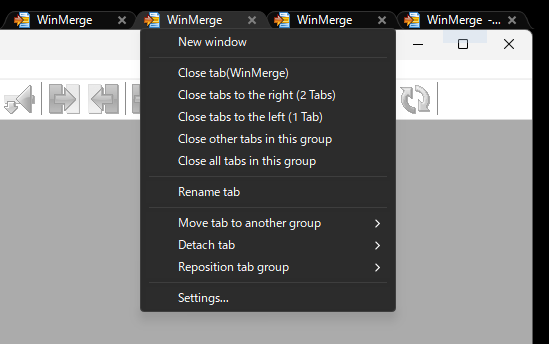
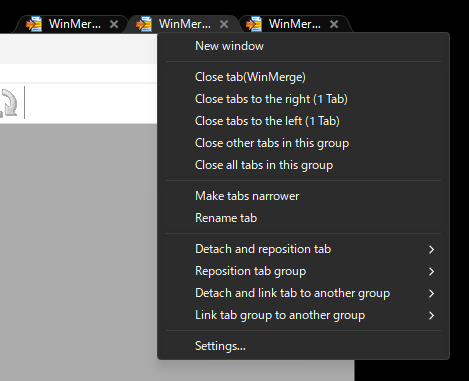
- Update README.md documentation

diff --git a/README.md b/README.md
@@ -65,32 +65,33 @@ To run WindowTabs at startup:
 
 ## Features
 
+### Tab Drag and Drop
+
+This feature remains unchanged from the original WindowTabs functionality.
+
+- Drag tabs to reorder within the same group
+- Drag tabs to separate into new windows with preview
+- Drop windows to create new tab groups
+- Respects tab alignment settings (left/center/right)
+
 ### Tab Management
 
 - **Tab Context Menu**: Right-click on tabs to access various options
   - Close tabs (this tab, tabs to the right, tabs to the left, other tabs, all tabs)
   - New window
-  - Tab width control (narrow/wide)
+  - Make tabs wider / Make tabs narrower
   - Rename tab
-  - Move tab to another group
-  - Detach tab
+  - Detach and reposition tab
   - Reposition tab group
+  - Detach and link tab to another group
+  - Link tab group to another group
   - Settings
 
 ![Popup Menu](README_Image/PopupMenu.png)
 
-### Move tab to another group
+### Detach and reposition tab
 
-Transfer tabs between different window groups:
-- Shows other groups with tab names
-- Adaptive tab name truncation
-- Display application icons for easy identification
-
-![Move tab to another group](README_Image/MoveTab.png)
-
-### Detach tab
-
-Detach tabs from groups with multi-display support:
+Detach a tab from group and reposition it with multi-display support:
 - Detach at same position
 - Move to display edges (right/left/top/bottom)
 - DPI-aware percentage-based positioning for correct placement across different DPI displays
@@ -99,13 +100,33 @@ Detach tabs from groups with multi-display support:
 
 ### Reposition tab group
 
-Move entire tab groups to different display positions:
+Move entire tab group to different display positions:
 - Move to current display edges (right/left/top/bottom)
 - Move to other displays with edge positioning options
 - DPI-aware positioning for correct placement across different DPI displays
 - Maintains tab group integrity while repositioning
 
 ![Reposition tab group](README_Image/MoveTabGroup.png)
+
+### Detach and link tab to another group
+
+Detach a single tab from current group and link it to another existing group:
+- Shows other groups with tab names and counts
+- Adaptive tab name truncation for easy identification
+- Display application icons for group recognition
+- Disabled when tab group has only one tab
+
+![Detach and link tab to another group](README_Image/MoveTab.png)
+
+### Link tab group to another group
+
+Transfer all tabs from current group to another existing group:
+- Shows other groups with tab names and counts
+- Transfers all tabs at once from current group to target group
+- Adaptive tab name truncation for easy identification
+- Display application icons for group recognition
+
+![Link tab group to another group](README_Image/MoveTabGroupToGroup.png)
 
 
 ### Menu Dark Mode / Light Mode
@@ -120,15 +141,8 @@ While light mode is the default, dark mode is also supported for context menus (
 - Multi-display support with proper window positioning
 - DPI-aware window placement
 - Automatic window resizing when dropped to prevent exceeding monitor dimensions
+- Fixed tab rename floating textbox positioning on high-DPI displays
 
-### Tab Drag and Drop
-
-This feature remains unchanged from the original WindowTabs functionality.
-
-- Drag tabs to reorder within the same group
-- Drag tabs to separate into new windows with preview
-- Drop windows to create new tab groups
-- Respects tab alignment settings (left/center/right)
 
 ### UWP Application Support
 
@@ -173,7 +187,8 @@ Customize the visual appearance of tabs:
 Configure tab behavior:
 - Tab position (left/center/right)
 - Tab width (narrow/wide) default
-- Hide tabs when positioned at bottom (never/maximized only/always/double-click)
+- Toggle tab width on active tab icon double-click
+- Hide tabs when positioned at bottom (never/always/double-click)
 - Delay before hiding tabs
 - Auto-grouping settings
 - Hotkey settings (Ctrl+1...+9 for tab activation)
